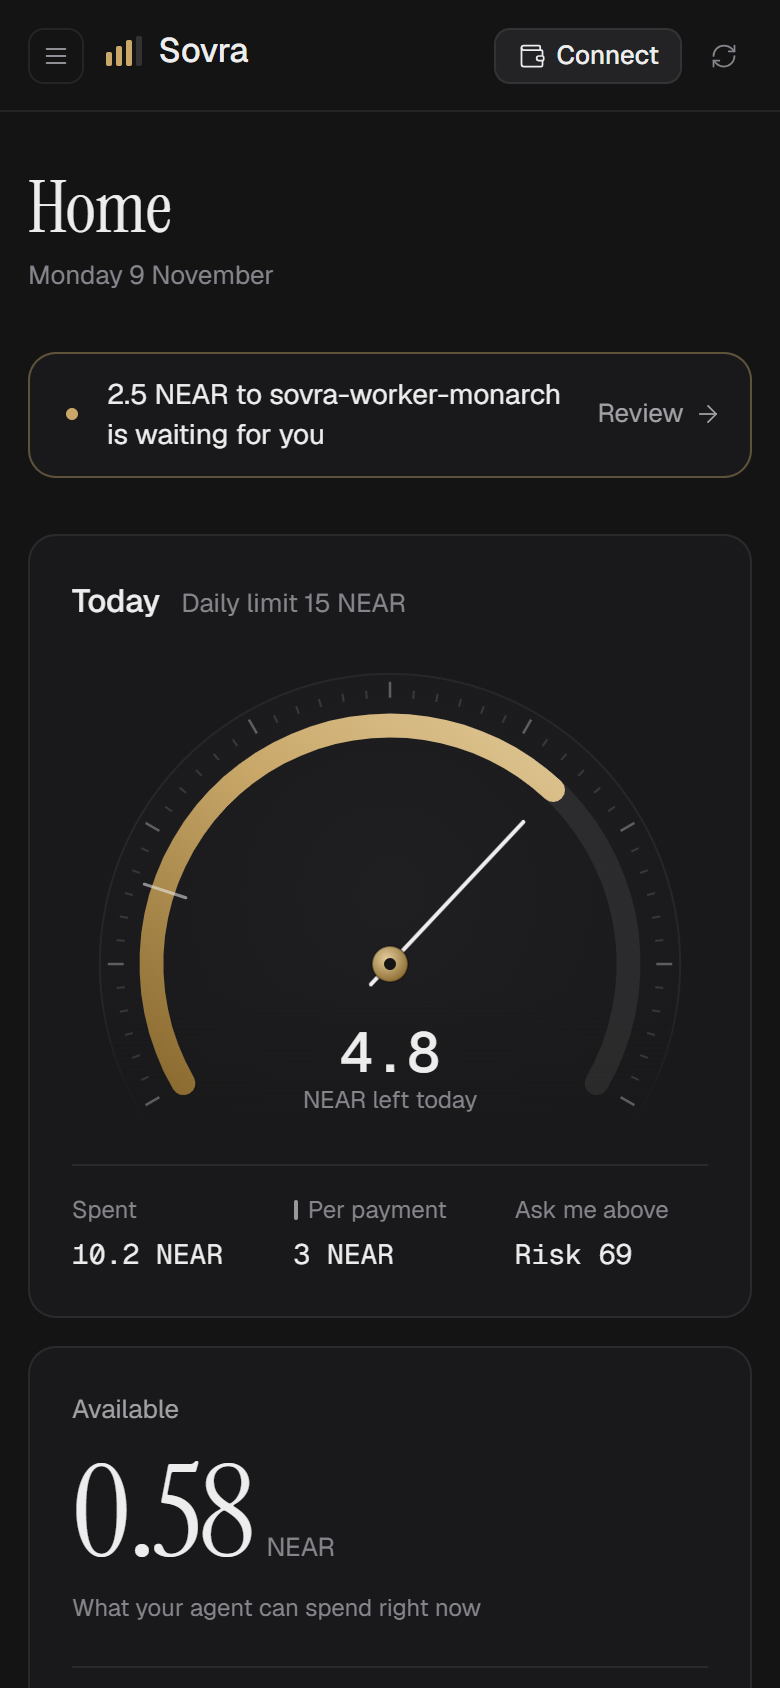
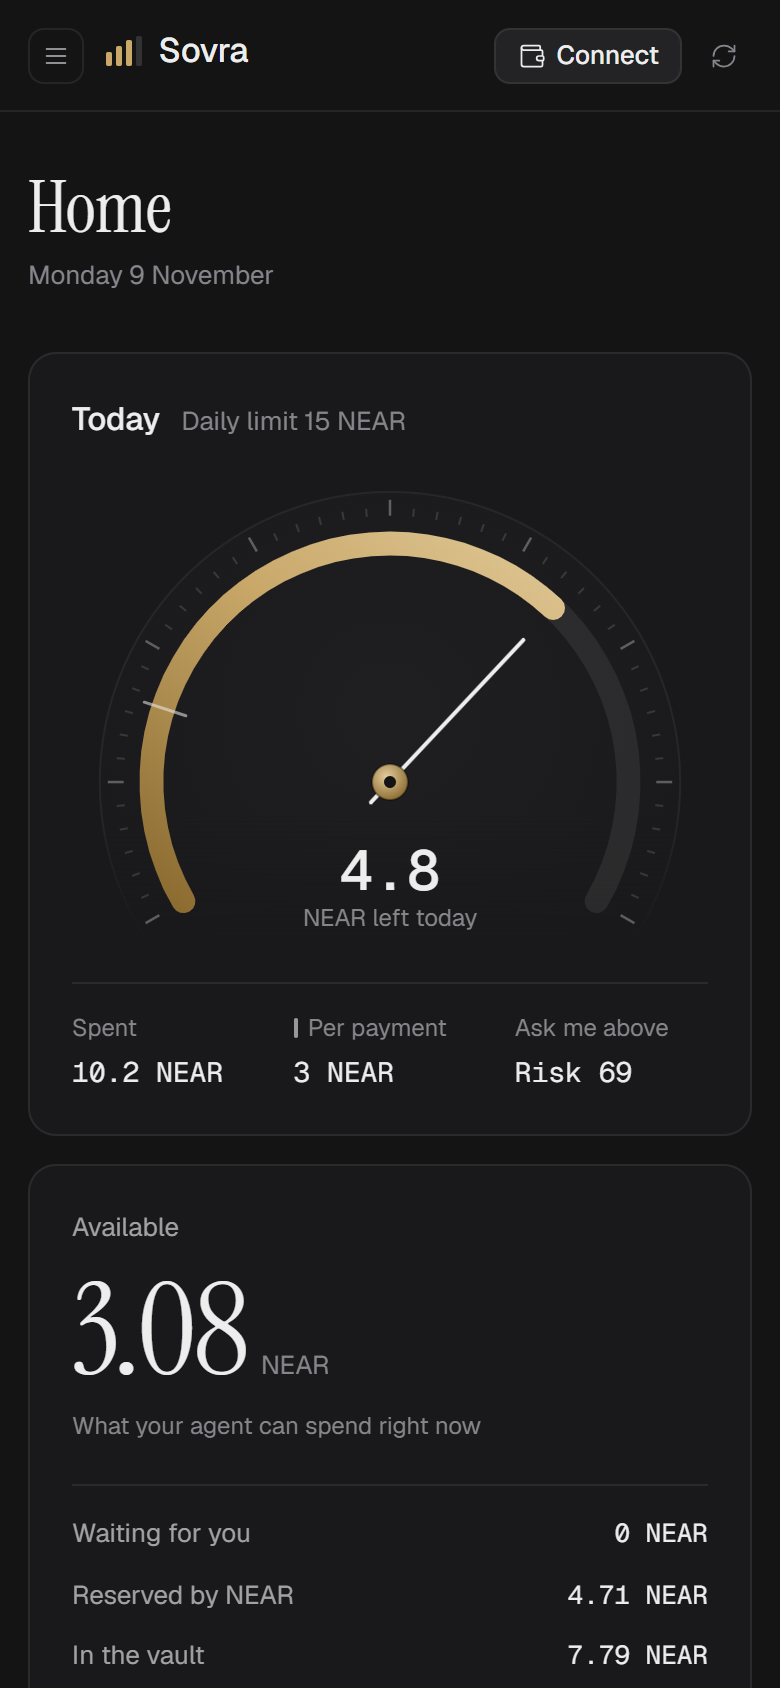
docs: full screenshot set after the UI rebuild

diff --git a/docs/screenshots/README.md b/docs/screenshots/README.md
@@ -1,22 +1,16 @@
 # Dashboard screenshots
 
-Captured from the live dashboard (https://sovra-near.vercel.app) against NEAR testnet, no wallet connected.
+Captured from the live dashboard (https://sovra-near.vercel.app) against NEAR testnet, no wallet connected, after the UI rebuild described in [design.md](../../design.md).
 Regenerate with `node scripts/capture-screenshots.mjs docs/screenshots` (headless Edge; `SHOTS_URL=http://localhost:5173` for a local run).
 
-The UI is being rebuilt screen by screen from [design.md](../../design.md). Screens marked *legacy* still use the old layout and wording inside the new palette.
-
-| File | Screen | State |
-|---|---|---|
-| `01-home.png` | Home: allowance dial, available balance, trust / level / last risk, waiting banner, recent payments | Rebuilt |
-| `02-agent.png` | Agent: trust over 7 days with the cause of each change, how trust moves, the six levels, baseline facts | Rebuilt |
-| `03-payments.png` | Payments: filters with counts, search, plain-language outcomes | Rebuilt |
-| `04-evidence-drawer.png` | Payment drawer: an owner-approved 2.5 NEAR payment, why it waited, risk check, the agent's words, proof | Rebuilt |
-| `05-approvals.png` | Approvals: a 2.5 NEAR payment held at level 5 as a slip with the countdown ring, plus recent decisions | Rebuilt |
-| `06-limits.png` | Limits (version 2): plain-language fields, approved recipients, and what changes for each demo invoice | Rebuilt |
-| `07-activity.png` | Activity: one sentence per event, grouped by day, with proof links | Rebuilt |
-| `08-mobile-home.png` | Home at 390 px | Rebuilt |
-| `09-mobile-payments.png` | Payments at 390 px | Rebuilt |
-| `10-mobile-approvals.png` | Approvals at 390 px | Rebuilt |
-| `11-mobile-activity.png` | Activity at 390 px | Rebuilt |
-| `12-mobile-agent.png` | Agent at 390 px | Rebuilt |
-| `13-mobile-limits.png` | Limits at 390 px | Rebuilt |
+| File | Screen |
+|---|---|
+| `01-home.png` | Home: allowance dial, available balance, trust / level / last risk, recent payments, scenarios |
+| `02-agent.png` | Agent: trust over 7 days with the cause of each change, how trust moves, the six levels, baseline facts |
+| `03-payments.png` | Payments: filters with counts, search, plain-language outcomes |
+| `04-evidence-drawer.png` | Payment drawer: an owner-approved 2.5 NEAR payment, why it waited, risk check, the agent's words, proof |
+| `05-approvals.png` | Approvals: a 2.5 NEAR payment held at level 5 as a slip with the countdown ring, plus recent decisions |
+| `06-limits.png` | Limits (version 2): plain-language fields, approved recipients, and what changes for each demo invoice |
+| `07-activity.png` | Activity: one sentence per event, grouped by day, with proof links |
+| `14-settings.png` | Settings: wallet and vault, who holds which key, agent, connections |
+| `08-mobile-home.png` … `13-mobile-limits.png` | The same screens at 390 px |
